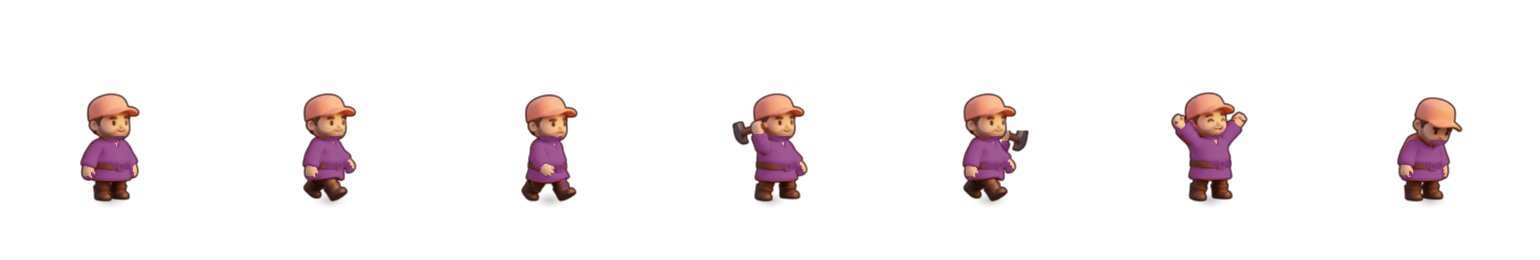
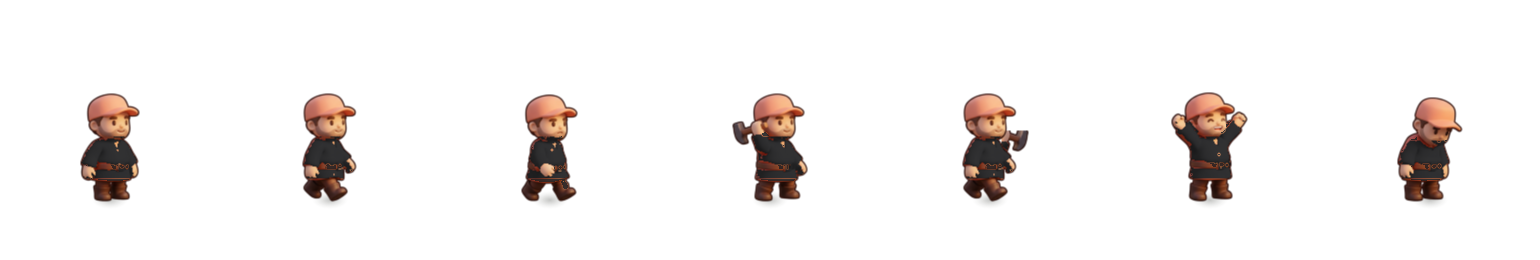
Grok builders wear black, Codex builders white
- Grok takes the black builder sheets and tent Codex had, and its palette
- Codex builders and tent recoloured white from the neutral set (tint
  limited to the grey cloth so the poles beside it keep their wood)
- agent logo tiles are unchanged (the brands' own app icons)

diff --git a/src/village/look.ts b/src/village/look.ts
@@ -8,10 +8,10 @@ export const PALETTE: Record<
   { body: string; dark: string; hat: string; roof: string; wall: string; label: string }
 > = {
   claude: { body: '#d97757', dark: '#8a3f24', hat: '#f6e7c8', roof: '#d4683f', wall: '#f3e2c4', label: 'Claude Code' },
-  codex: { body: '#3a3a40', dark: '#111114', hat: '#f4f4f4', roof: '#4a4d57', wall: '#cfccc5', label: 'Codex' },
+  codex: { body: '#e6e3dc', dark: '#8a867e', hat: '#3a3a40', roof: '#d9d6cf', wall: '#f2efe8', label: 'Codex' },
   antigravity: { body: '#4f7cf0', dark: '#22409a', hat: '#c9b8ff', roof: '#4f7cf0', wall: '#eef1f8', label: 'Antigravity' },
   opencode: { body: '#33a889', dark: '#17594a', hat: '#ffcc1a', roof: '#2f9a7e', wall: '#dcbf92', label: 'OpenCode' },
-  grok: { body: '#8e3f7f', dark: '#45193f', hat: '#f4eef2', roof: '#7f3772', wall: '#efe2ea', label: 'Grok Build' },
+  grok: { body: '#3a3a40', dark: '#111114', hat: '#f4f4f4', roof: '#4a4d57', wall: '#cfccc5', label: 'Grok Build' },
   custom: { body: '#8d8a83', dark: '#4f4c47', hat: '#efeae0', roof: '#7d7a74', wall: '#e4ded2', label: 'Custom' },
 };
 

diff --git a/src/village/art/entities.test.ts b/src/village/art/entities.test.ts
@@ -168,7 +168,8 @@ describe('palette', () => {
       body: '#8d8a83', roof: '#7d7a74', wall: '#e4ded2', dark: '#4f4c47', hat: '#efeae0',
     });
     expect(PALETTE.claude).toMatchObject({ body: '#d97757', roof: '#d4683f', wall: '#f3e2c4' });
-    expect(PALETTE.codex).toMatchObject({ body: '#3a3a40', roof: '#4a4d57', wall: '#cfccc5' });
+    expect(PALETTE.codex).toMatchObject({ body: '#e6e3dc', roof: '#d9d6cf', wall: '#f2efe8' });
+    expect(PALETTE.grok).toMatchObject({ body: '#3a3a40', roof: '#4a4d57', wall: '#cfccc5' });
     expect(PALETTE.antigravity).toMatchObject({ body: '#4f7cf0', roof: '#4f7cf0', wall: '#eef1f8' });
     expect(PALETTE.opencode).toMatchObject({ body: '#33a889', roof: '#2f9a7e', wall: '#dcbf92' });
   });
